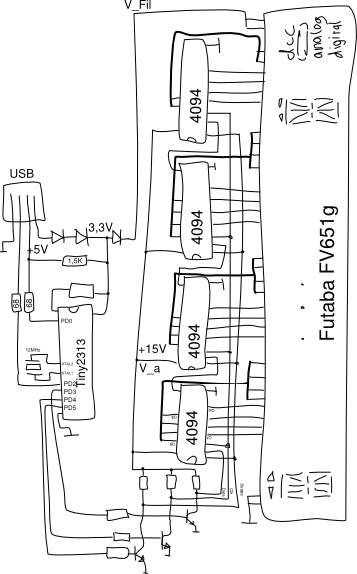
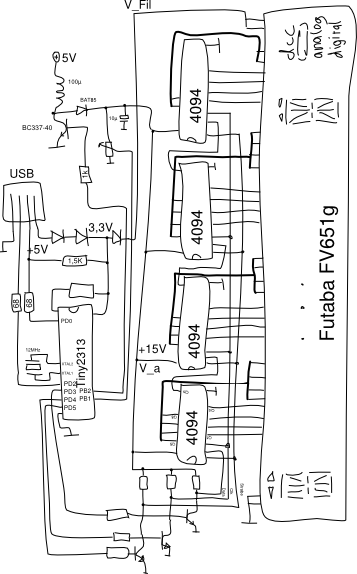
added Boost Converter for V_a, so far everything working well

Changed region(s): [[0.0616, 0.0889, 0.4314, 0.3258], [0.2157, 0.3554, 0.3697, 0.7108]]

diff --git a/uart.c b/uart.c
@@ -26,6 +26,9 @@ void inittxt(void) {
     for(i = 0; i < BUFFLEN; i++){
       text[i] = 0;
     }
+    text[1] = 0xFF;
+    text[3] = 0xFF;
+    text[5] = 0xFF;
     special = 0b00; 
 
 }

diff --git a/main.c b/main.c
@@ -85,8 +85,9 @@ int main(void) {
 	    v=getcharat(d);
 	    setvfd(d,v);
 	    _delay_ms(1);
+	    handlepwm();
+	    usbPoll();
 	}
-	usbPoll();
-	handlepwm();
+	
     }
 }
